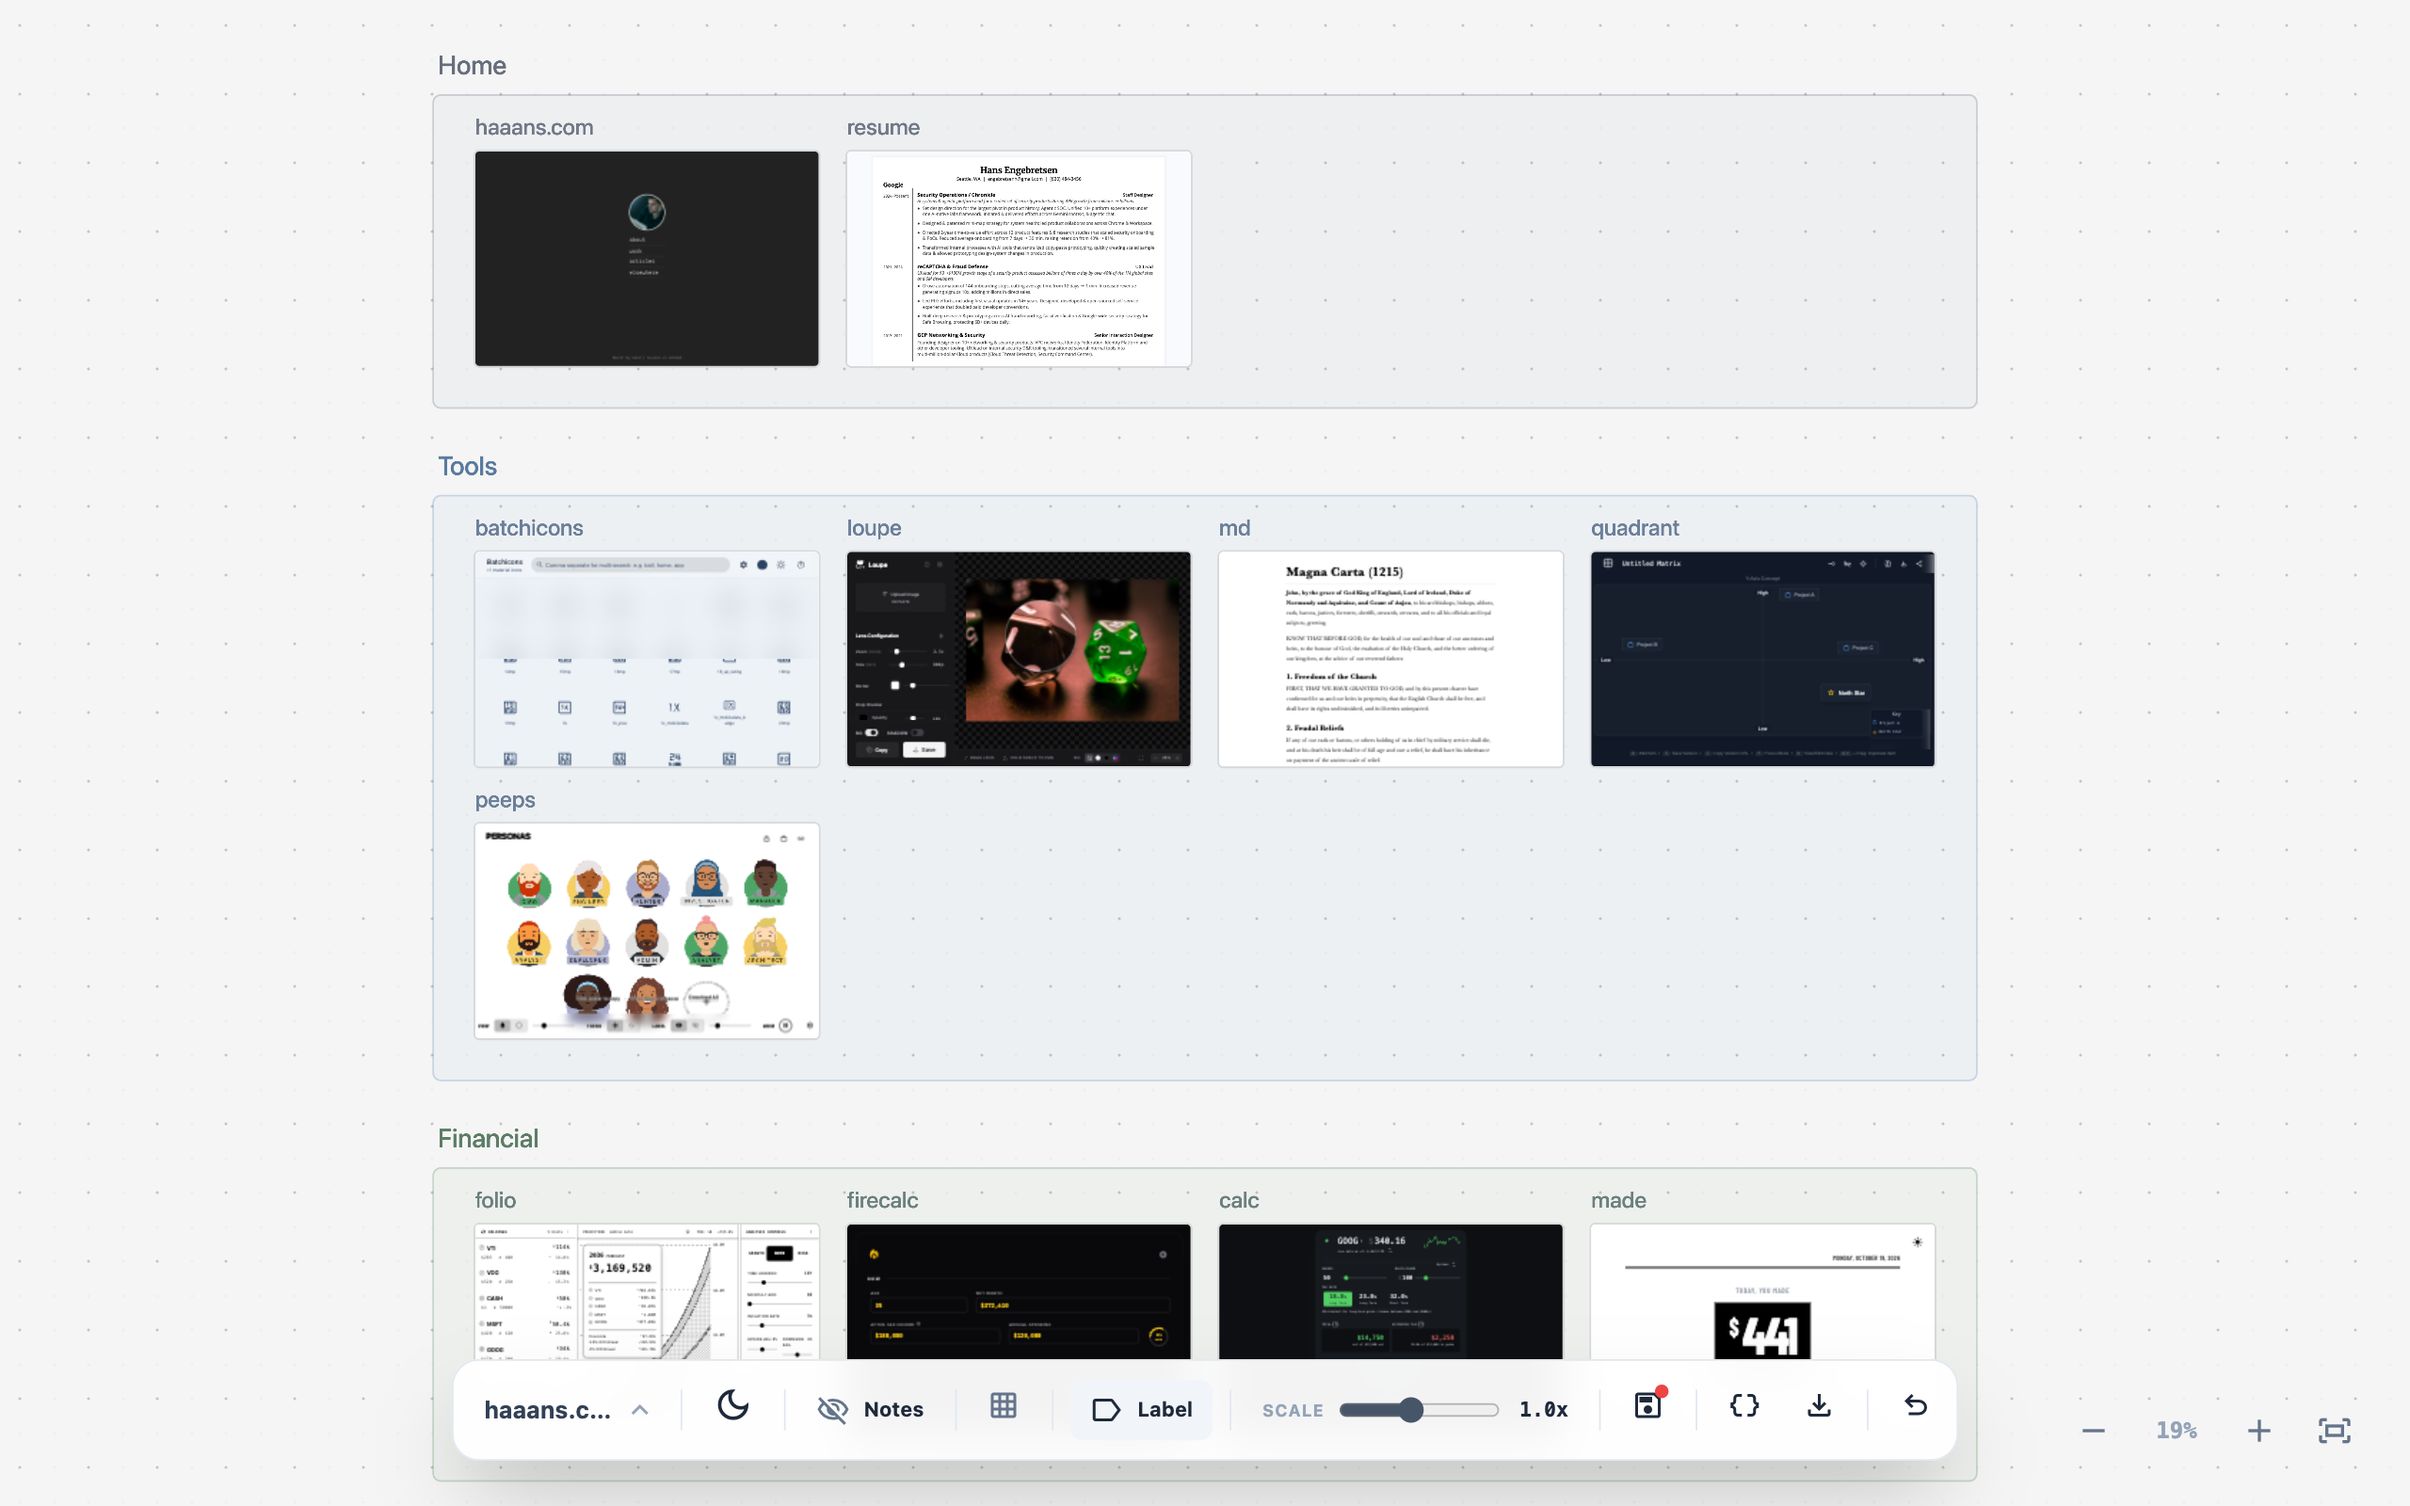
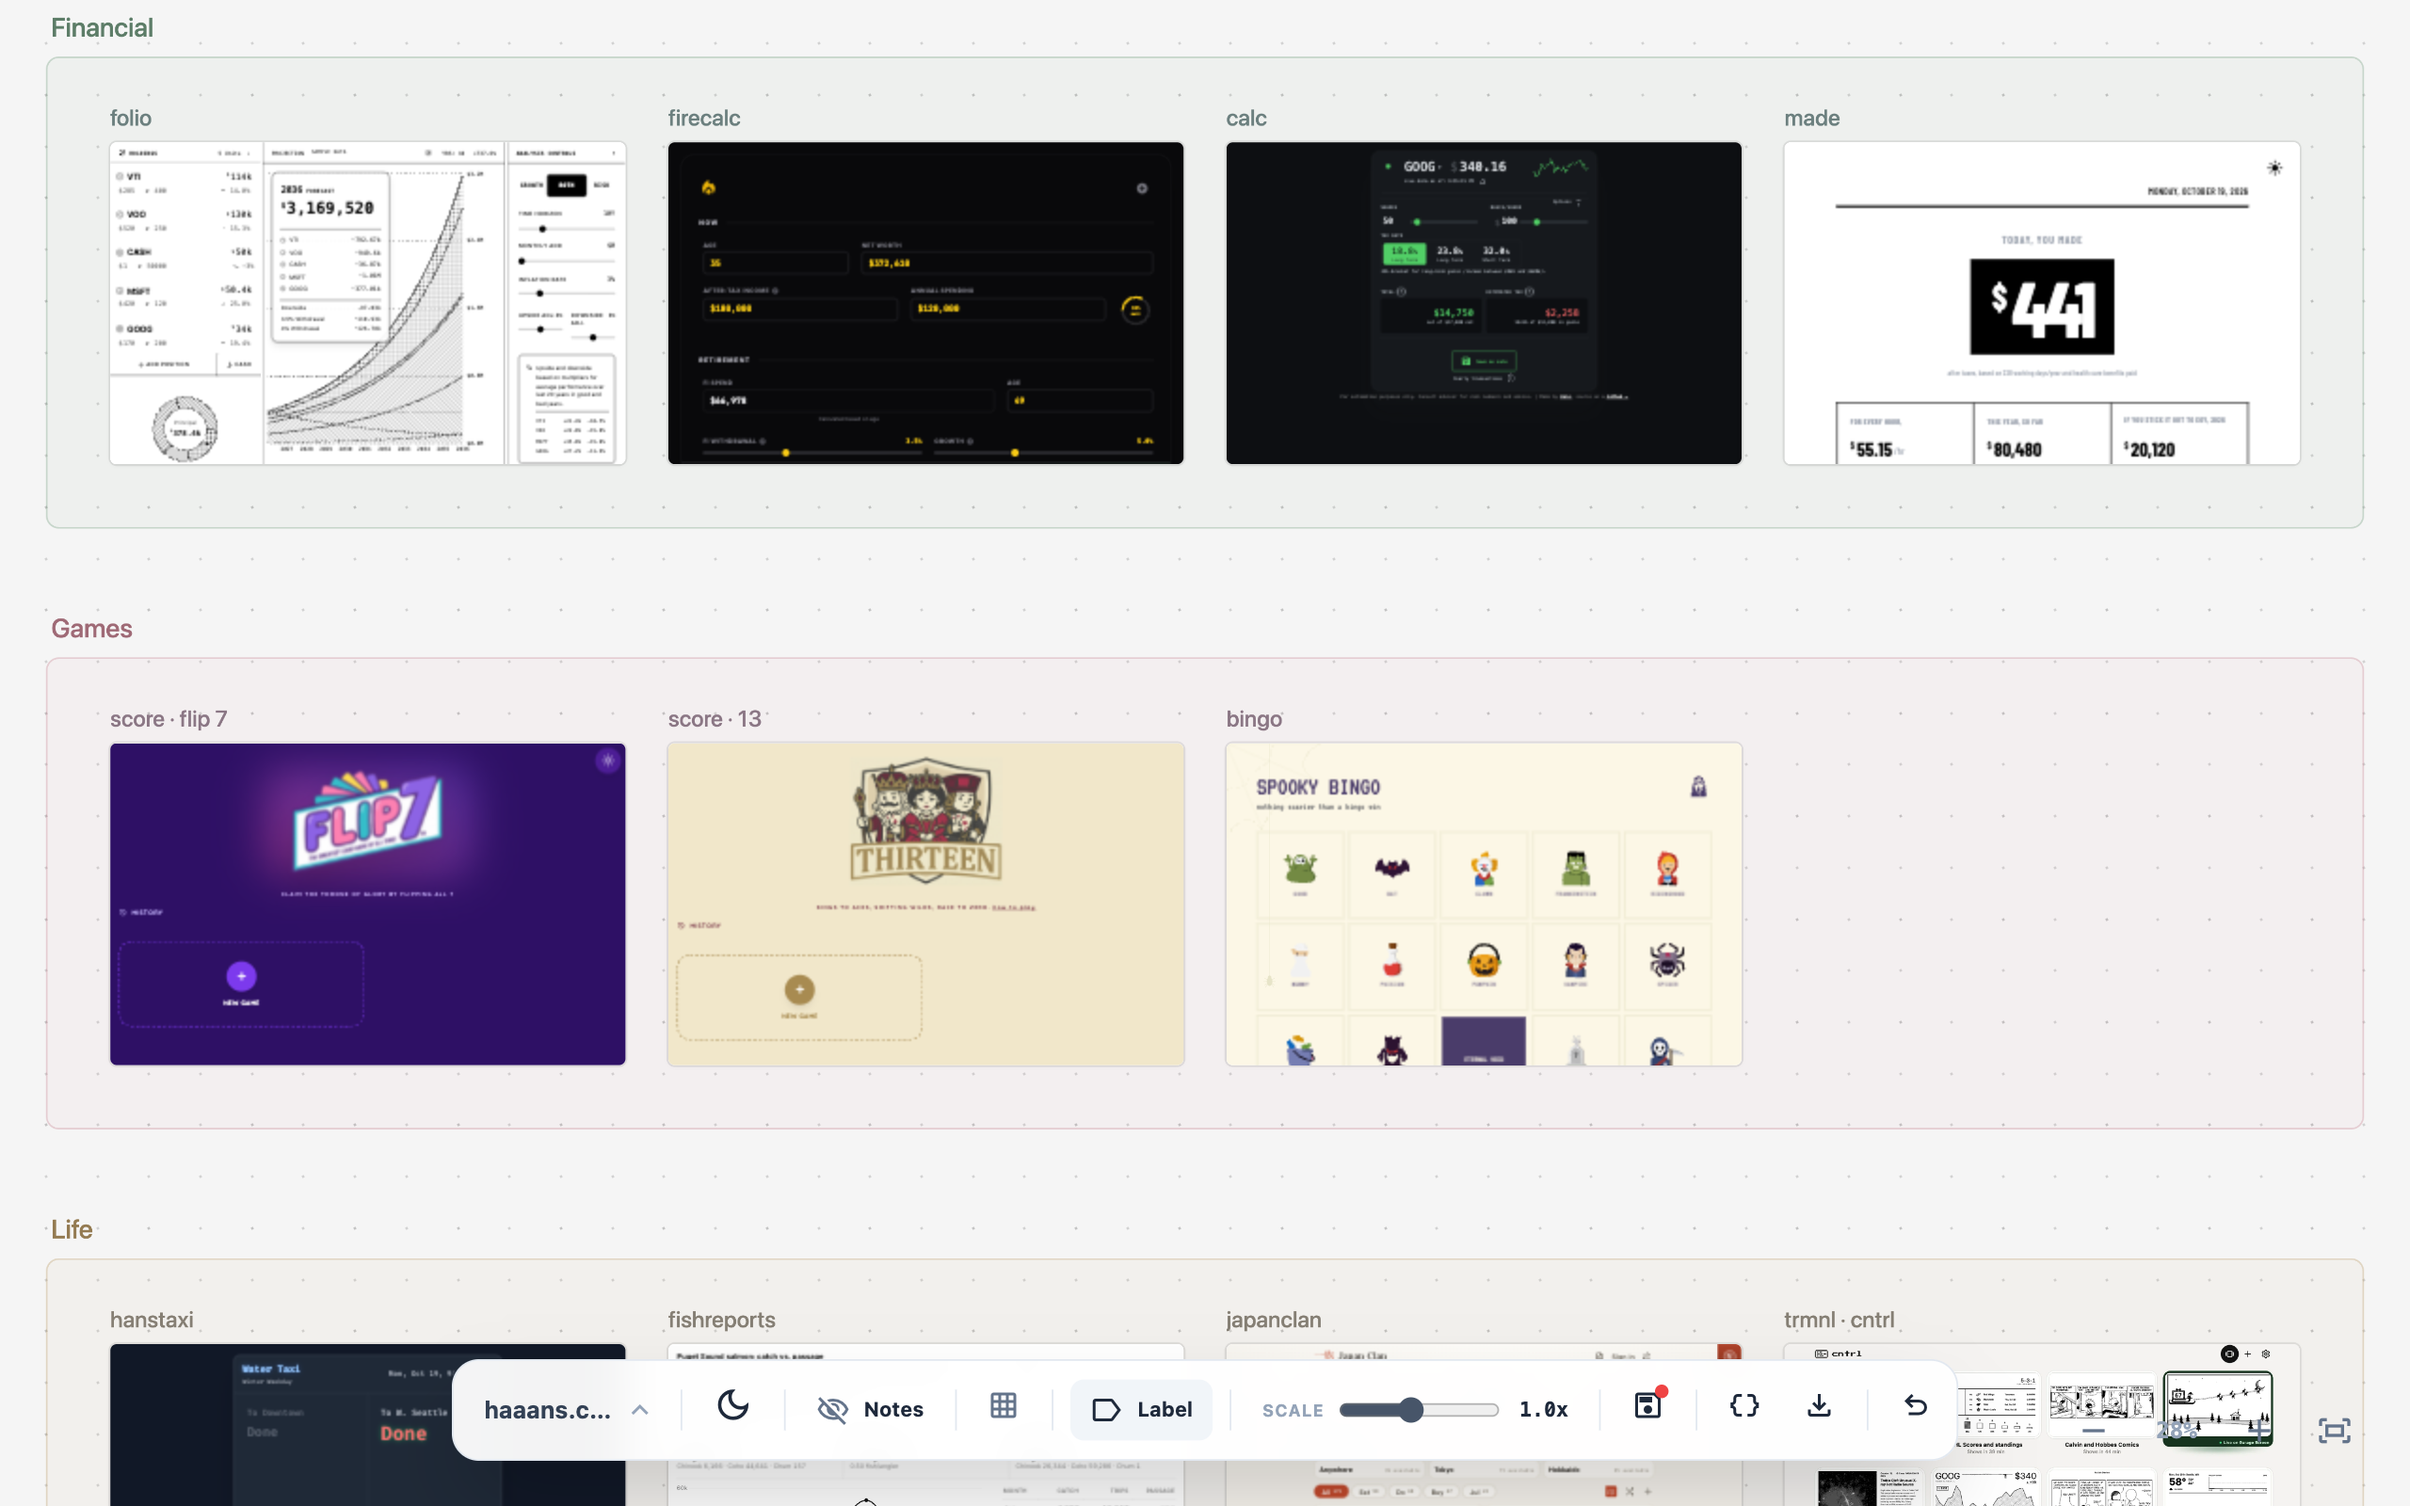
README: lead with paste, organize, save; sharper hero and new demos

diff --git a/README.md b/README.md
@@ -1,6 +1,6 @@
 # `canvas`
 
-An infinite canvas of live websites. Lay out sites and snippets in labeled groups, then zoom, pan and rearrange them like cards on a table.
+An infinite canvas for live websites and HTML. Paste things in, group them under labels, and test them side by side, all saved in your browser.
 
 
 <div align="center">
@@ -19,47 +19,47 @@ An infinite canvas of live websites. Lay out sites and snippets in labeled group
 <table>
 <tr valign="top">
 <td width="50%">
-<h3>Zoom from the map into a site</h3>
-<p>Pinch or hold Cmd/Ctrl and scroll to dive from the whole board into one live site, centered on wherever your cursor is.</p>
+<h3>Paste anything</h3>
+<p>Paste a URL and it becomes a live, working card. Paste HTML and it renders on the spot. Each card lands in the next open space.</p>
 </td>
 <td width="50%">
-<img src="demos/zoom.gif" alt="Zoom from the map into a site">
-</td>
-</tr>
-<tr valign="top">
-<td width="50%">
-<img src="demos/pan.gif" alt="Hold space to pan">
-</td>
-<td width="50%">
-<h3>Hold space to pan</h3>
-<p>Hold the space bar and drag to slide around the board, or scroll with two fingers on a trackpad.</p>
+<img src="demos/paste.gif" alt="Paste anything">
 </td>
 </tr>
 <tr valign="top">
 <td width="50%">
-<h3>Drag a label, bring its sites</h3>
-<p>Labels group what's inside them. Grab a label's title and everything in it moves along.</p>
+<img src="demos/organize.gif" alt="Manage and organize everything">
 </td>
 <td width="50%">
-<img src="demos/label.gif" alt="Drag a label, bring its sites">
-</td>
-</tr>
-<tr valign="top">
-<td width="50%">
-<img src="demos/fullscreen.gif" alt="Double-click to open full screen">
-</td>
-<td width="50%">
-<h3>Double-click to open full screen</h3>
-<p>Open any site at full size with its source alongside it. Press Esc and you're back where you were on the board.</p>
+<h3>Manage and organize everything</h3>
+<p>Hold space and drag to pan, add a label, name it and pick its color. Drag a label and everything inside comes with it.</p>
 </td>
 </tr>
 <tr valign="top">
 <td width="50%">
-<h3>Resize and watch it reflow</h3>
-<p>Every card is a real, live page. Drag a corner to make it narrower and the site's responsive layout kicks in.</p>
+<h3>Save &amp; share without databases</h3>
+<p>Canvases save to your browser's local storage, with no account or server. Copy a whole canvas as JSON to share it, or load one from a file with <code>?import=</code>.</p>
 </td>
 <td width="50%">
-<img src="demos/resize.gif" alt="Resize and watch it reflow">
+<img src="demos/save.gif" alt="Save and share without databases">
+</td>
+</tr>
+<tr valign="top">
+<td width="50%">
+<img src="demos/fullscreen.gif" alt="Edit and add notes">
+</td>
+<td width="50%">
+<h3>Edit and add notes</h3>
+<p>Double-click any card to see it full size beside its source. Every card has a notes field, and HTML snippets get live controls for their CSS variables.</p>
+</td>
+</tr>
+<tr valign="top">
+<td width="50%">
+<h3>Responsive testing, canvas windows</h3>
+<p>Every card is a real page in its own window. Drag a corner to resize it and watch the site's responsive layout kick in.</p>
+</td>
+<td width="50%">
+<img src="demos/resize.gif" alt="Responsive testing, canvas windows">
 </td>
 </tr>
 </table>
